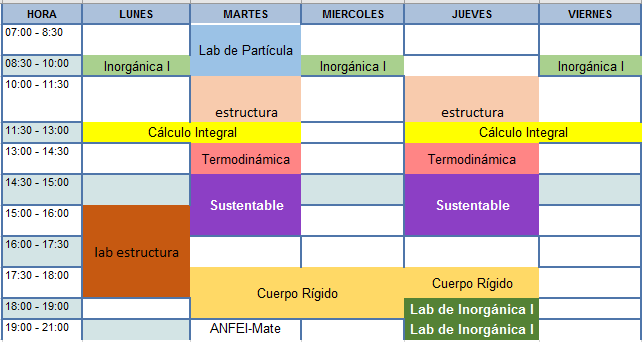
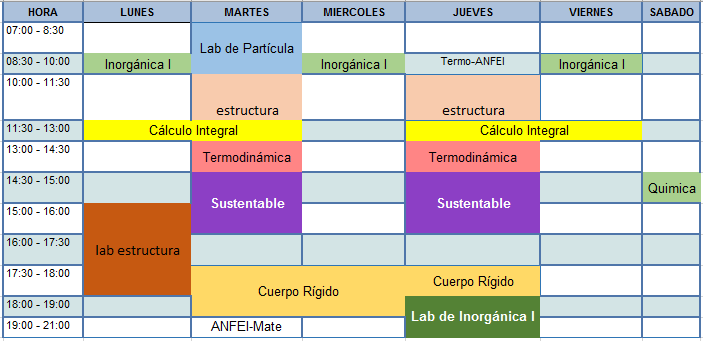
actializamos horario y classroom y camvia de cada materia

diff --git a/index.html b/index.html
@@ -193,7 +193,7 @@
     <p>
       <ul>
         <li>DINAMICA DEL CUERPO RIGIDO Grupo: CSAI81 Maestro: 
-CRUZ GALINDO HILARION SIMON Clave: 1111081 <b>ya esta programada sesion ZOOM</b></li>
+CRUZ GALINDO HILARION SIMON Clave: 1111081 <b>ya esta programada sesion ZOOM Ya hay classroom</b></li>
       </ul>
     </p>
     <button class="w3-btn w3-teal" onclick="document.getElementById('id03').style.display='block'">Ver instrucciones</button>
@@ -434,7 +434,7 @@ ELIZARRARAZ MARTINEZ DAVID Clave: 1112029 <b>enviara correo electronico Ya hay c
     <p>
       <ul>
         <li>QUIMICA INORGANICA I Grupo: CCB01 Maestra: 
-MAUBERT FRANCO ANA MARISELA Clave: 1113047<b>Correo 30 minutos antes del inicio de la clase</b></li>
+MAUBERT FRANCO ANA MARISELA Clave: 1113047<b>Ya hay Classroom</b></li>
   
       </ul>
     </p>
@@ -504,7 +504,7 @@ MAUBERT FRANCO ANA MARISELA Clave: 1113047<b>Correo 30 minutos antes del inicio 
       <ul>
    
         <li>LABORATORIO DE QUIMICA INORGANICA I Grupo: CCB81 Maestra: 
-SOTO TELLEZ MARIA DE LA LUZ Clave: 1113048 <b>Whatsapp</b></li>
+SOTO TELLEZ MARIA DE LA LUZ Clave: 1113048 <b>CAMVIA</b></li>
       </ul>
     </p>
     <button class="w3-btn w3-teal" onclick="document.getElementById('id08').style.display='block'">Ver instrucciones</button>
@@ -565,7 +565,7 @@ SOTO TELLEZ MARIA DE LA LUZ Clave: 1113048 <b>Whatsapp</b></li>
   <div class="w3-panel w3-light-gray">
     <p>
       <ul>
-        <li>ESTRUCTURA Y PROPIEDADES DE LOS MATERIALES EN INGENIERIA Grupo: CTG07 Maestra: SANTANA CRUZ ALEJANDRA Clave: 1113086 <b>Se enviará al correo institucional</b></li>
+        <li>ESTRUCTURA Y PROPIEDADES DE LOS MATERIALES EN INGENIERIA Grupo: CTG07 Maestra: SANTANA CRUZ ALEJANDRA Clave: 1113086 <b>Camvia todavia no registrado</b></li>
       </ul>
     </p>
     <button class="w3-btn w3-teal" onclick="document.getElementById('id09').style.display='block'">Ver instrucciones</button>
